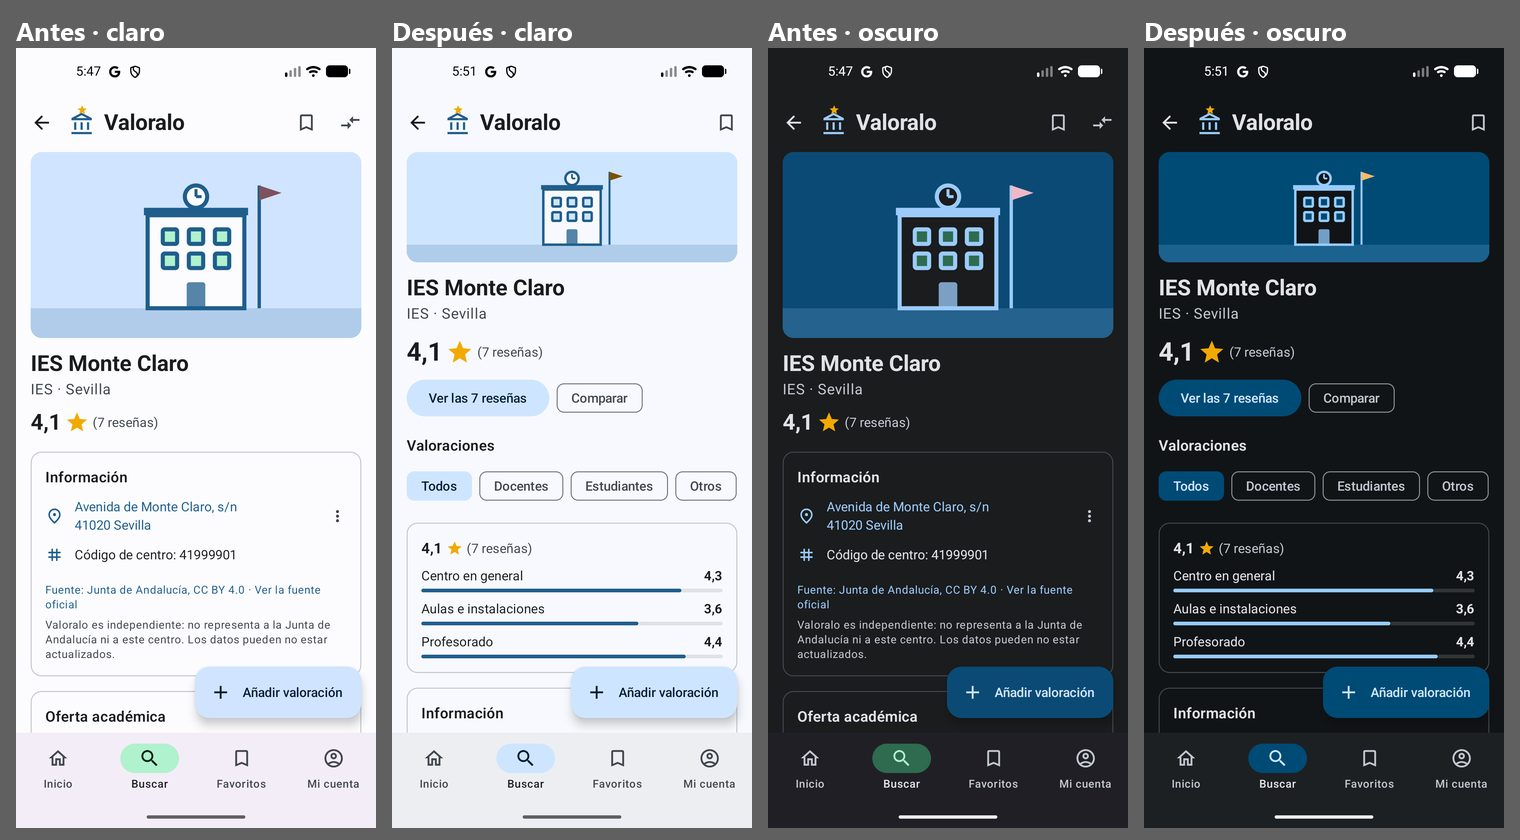
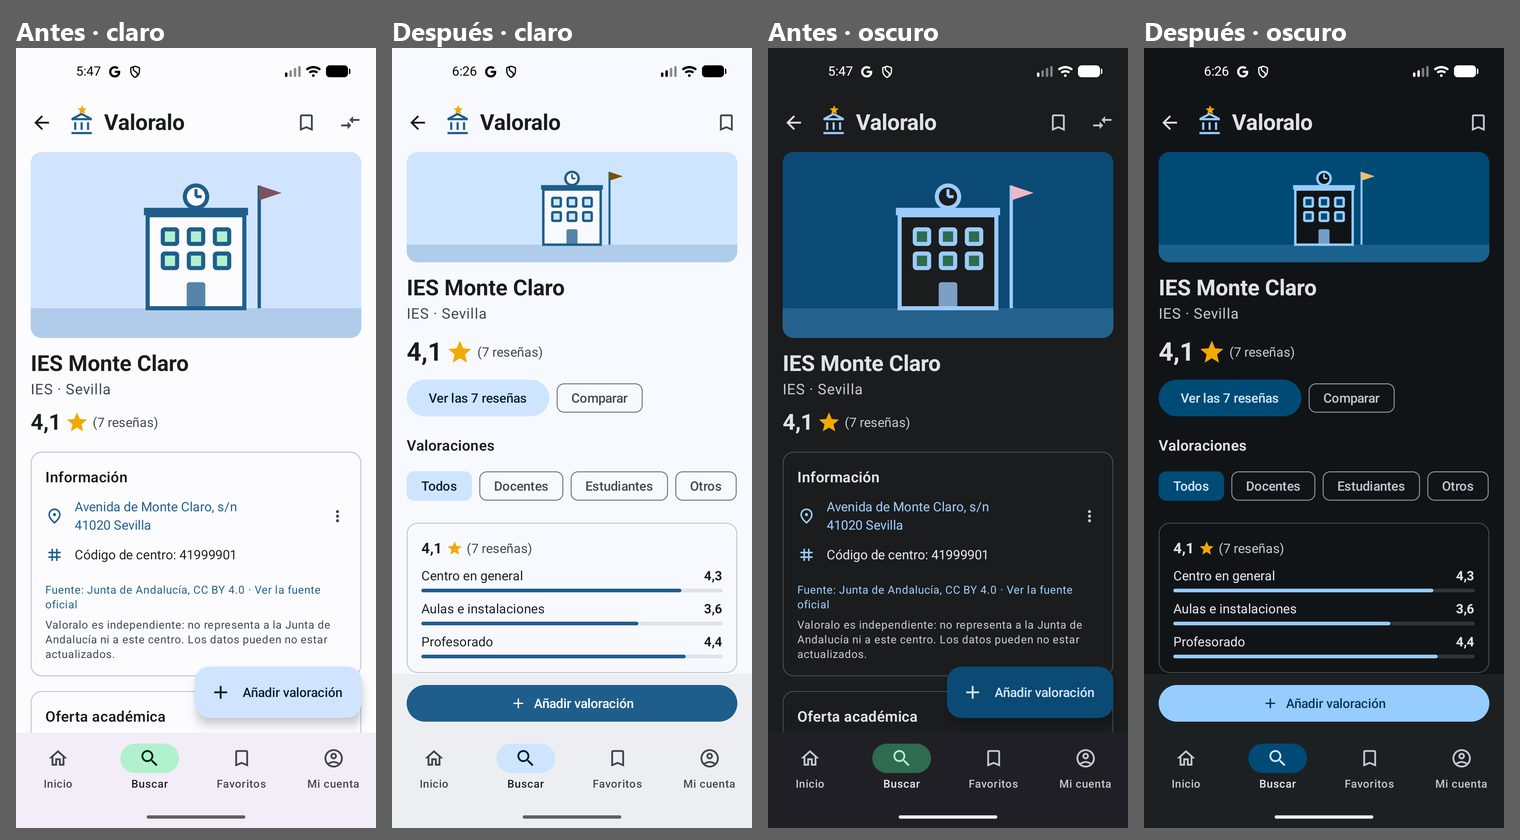
1.0.8 (versionCode 9): Docente en verde, barra fija «Añadir valoración» en el detalle (no tapa contenido), invitación en centros sin reseñas, capturas corregidas (comparador con 3 centros); decisiones.md con la ronda de diseño y la regla de capturas con centros ficticios

Changed region(s): [[0.7421, 0.7738, 0.9895, 0.8667], [0.2474, 0.7738, 0.4947, 0.8667]]

diff --git a/app/src/main/java/com/valoralo/ui/detail/DetailScreen.kt b/app/src/main/java/com/valoralo/ui/detail/DetailScreen.kt
@@ -61,6 +61,8 @@ import androidx.compose.material.icons.outlined.ErrorOutline
 import androidx.compose.material.icons.outlined.RateReview
 import androidx.compose.material.icons.outlined.SearchOff
 import androidx.compose.material3.FilledTonalButton
+import androidx.compose.material3.Surface
+import androidx.compose.material3.Button
 import androidx.compose.runtime.derivedStateOf
 import androidx.compose.runtime.rememberCoroutineScope
 import androidx.compose.ui.text.style.TextOverflow
@@ -168,8 +170,7 @@ private fun DetailContent(
     val lista = rememberLazyListState()
     // 1.0.8: once the header scrolls away, the bar shows which centro this is.
     val cabeceraFuera by remember { derivedStateOf { lista.firstVisibleItemIndex > 0 } }
-    // 1.0.8: the button shrinks to its icon while scrolling down and grows back when scrolling up or at the top.
-    val fabExpandido by remember { derivedStateOf { lista.firstVisibleItemIndex == 0 || !lista.lastScrolledForward } }
+
     Scaffold(
         topBar = {
             TopAppBar(
@@ -189,23 +190,28 @@ private fun DetailContent(
                 actions = { if (state is DetailUiState.Listo) accionesBarra(state.centro) },
             )
         },
-        floatingActionButton = {
+        // 1.0.8: a fixed bar at the bottom instead of a floating button, so it never covers text or bars
+        // (the content is laid out above it).
+        bottomBar = {
             if (state is DetailUiState.Listo) {
                 val propia = state.miValoracion != null
                 val etiqueta = if (propia) "Editar mi valoración" else "Añadir valoración"
-                ExtendedFloatingActionButton(
-                    onClick = { onAnadirValoracion(state.centro) },
-                    icon = { Icon(if (propia) Icons.Outlined.Edit else Icons.Filled.Add, contentDescription = null) },
-                    text = { Text(etiqueta) },
-                    expanded = fabExpandido,
-                    // One accessibility node with name, role and action: the tree showed this button without
-                    // text (QA 1.0.5, finding 15), so TalkBack doesn't depend on merging the inner Text.
-                    modifier = Modifier.clearAndSetSemantics {
-                        contentDescription = etiqueta
-                        role = Role.Button
-                        onClick(label = etiqueta) { onAnadirValoracion(state.centro); true }
-                    },
-                )
+                Surface(color = MaterialTheme.colorScheme.surfaceContainer) {
+                    Button(
+                        onClick = { onAnadirValoracion(state.centro) },
+                        modifier = Modifier.fillMaxWidth().padding(horizontal = 16.dp, vertical = 8.dp)
+                            // One accessibility node with name, role and action (QA 1.0.5, finding 15).
+                            .clearAndSetSemantics {
+                                contentDescription = etiqueta
+                                role = Role.Button
+                                onClick(label = etiqueta) { onAnadirValoracion(state.centro); true }
+                            },
+                    ) {
+                        Icon(if (propia) Icons.Outlined.Edit else Icons.Filled.Add, contentDescription = null, modifier = Modifier.size(18.dp))
+                        Spacer(Modifier.width(8.dp))
+                        Text(etiqueta)
+                    }
+                }
             }
         },
         // The app-level Scaffold already handles system bars and the bottom bar.
@@ -275,11 +281,11 @@ private fun DetailLista(
     LazyColumn(
         state = lista,
         modifier = Modifier.fillMaxSize().padding(padding),
-        contentPadding = PaddingValues(start = 16.dp, end = 16.dp, bottom = 96.dp),
+        contentPadding = PaddingValues(start = 16.dp, end = 16.dp, bottom = 16.dp),
         verticalArrangement = Arrangement.spacedBy(16.dp),
     ) {
         item(key = "cabecera") {
-            Cabecera(centro, botonComparar, onVerResenas = { scope.launch { lista.animateScrollToItem(indiceResenas) } })
+            Cabecera(centro, botonComparar, onVerResenas = { scope.launch { lista.animateScrollToItem(indiceResenas) } }, onValorar = onAnadirValoracion.takeIf { state.miValoracion == null })
         }
         item(key = "valoraciones") {
             Titulo("Valoraciones")
@@ -311,7 +317,7 @@ private fun DetailLista(
         }
         if (state.resenas.isEmpty()) {
             item(key = "sin-resenas") {
-                val invitar = state.filtroRol == FiltroRol.TODOS && state.miValoracion == null
+                val invitar = state.filtroRol == FiltroRol.TODOS && state.miValoracion == null && centro.stats.total.n > 0
                 EstadoVacio(
                     Icons.Outlined.RateReview,
                     textoSinResenas(state.filtroRol, tengoPropia = state.miValoracion != null),
@@ -340,7 +346,7 @@ internal fun indiceDeResenas(hayDepartamentos: Boolean, hayPropia: Boolean): Int
 
 @OptIn(ExperimentalLayoutApi::class)
 @Composable
-private fun Cabecera(centro: Centro, botonComparar: @Composable () -> Unit, onVerResenas: () -> Unit) {
+private fun Cabecera(centro: Centro, botonComparar: @Composable () -> Unit, onVerResenas: () -> Unit, onValorar: (() -> Unit)?) {
     Column {
         // 1.0.8: a slimmer illustration (was 16:9, a third of the screen) so the mark is visible at once.
         FotoCentro(centro.fotoUrl, centro.tipo, Modifier.fillMaxWidth().aspectRatio(3f))
@@ -366,6 +372,19 @@ private fun Cabecera(centro: Centro, botonComparar: @Composable () -> Unit, onVe
                 }
             }
             botonComparar()
+        }
+        // 1.0.8: a centro without reviews invites to write the first one as soon as it opens.
+        if (centro.stats.total.n == 0 && onValorar != null) {
+            Spacer(Modifier.height(12.dp))
+            OutlinedCard(Modifier.fillMaxWidth()) {
+                EstadoVacio(
+                    Icons.Outlined.RateReview,
+                    "Aún no hay reseñas de este centro",
+                    "Tu opinión ayuda a otras familias, estudiantes y docentes.",
+                    accion = "Sé el primero en valorar",
+                    onAccion = onValorar,
+                )
+            }
         }
     }
 }

diff --git a/app/src/main/java/com/valoralo/ui/theme/BordeRol.kt b/app/src/main/java/com/valoralo/ui/theme/BordeRol.kt
@@ -9,11 +9,6 @@ import androidx.compose.ui.unit.Dp
 import androidx.compose.ui.unit.dp
 import com.valoralo.domain.model.Rol
 
-/** Candidates for the Docente colour (1.0.8): it must not be the brand blue of buttons and links. */
-enum class ColorDocente { VERDE, TEAL }
-
-/** Chosen with the before/after captures (docs/diseno). */
-val PROPUESTA_DOCENTE = ColorDocente.VERDE
 
 /**
  * Border of a review card by the author's role: Docente green (1.0.8; was the brand blue), Estudiante
@@ -21,11 +16,9 @@ val PROPUESTA_DOCENTE = ColorDocente.VERDE
  * the card (and the verified badge stays). Docente and Estudiante reach ≥ 4.5:1 against the card surfaces
  * in light and dark (WCAG asks 3:1 for borders, 4.5:1 for the carousel's role label).
  */
-fun colorBordeRol(rol: Rol, oscuro: Boolean, docente: ColorDocente = PROPUESTA_DOCENTE): Color = when (rol) {
-    Rol.DOCENTE -> when (docente) {
-        ColorDocente.VERDE -> if (oscuro) DocenteVerde80 else DocenteVerde40
-        ColorDocente.TEAL -> if (oscuro) DocenteTeal80 else DocenteTeal40
-    }
+fun colorBordeRol(rol: Rol, oscuro: Boolean): Color = when (rol) {
+    // Green, chosen on 22/11/2026 over teal (docs/diseno/antes-despues-1.0.8/00-color-docente-*).
+    Rol.DOCENTE -> if (oscuro) DocenteVerde80 else DocenteVerde40
     Rol.ESTUDIANTE -> if (oscuro) Melocoton80 else Terracota40
     Rol.OTRO -> if (oscuro) NeutroVar30 else NeutroVar80 // = outlineVariant, the default card border
 }

diff --git a/app/src/test/java/com/valoralo/ui/theme/BordeRolTest.kt b/app/src/test/java/com/valoralo/ui/theme/BordeRolTest.kt
@@ -38,9 +38,9 @@ class BordeRolTest {
     @Test
     fun docenteYEstudianteSonLegiblesComoTextoEnClaroYOscuro() {
         // 4.5:1 also covers the 3:1 needed for borders.
-        for (docente in ColorDocente.entries) for (rol in listOf(Rol.DOCENTE, Rol.ESTUDIANTE)) {
-            fondosClaros.forEach { f -> assertTrue("$rol/$docente claro", contraste(colorBordeRol(rol, false, docente), f) >= 4.5) }
-            fondosOscuros.forEach { f -> assertTrue("$rol/$docente oscuro", contraste(colorBordeRol(rol, true, docente), f) >= 4.5) }
+        for (rol in listOf(Rol.DOCENTE, Rol.ESTUDIANTE)) {
+            fondosClaros.forEach { f -> assertTrue("$rol claro", contraste(colorBordeRol(rol, false), f) >= 4.5) }
+            fondosOscuros.forEach { f -> assertTrue("$rol oscuro", contraste(colorBordeRol(rol, true), f) >= 4.5) }
         }
     }
 
@@ -48,10 +48,8 @@ class BordeRolTest {
     fun docenteYaNoEsElAzulDeBotonesYEnlaces() {
         val primarioClaro = Color(0xFF1F5E8C)
         val primarioOscuro = Color(0xFF96CCFF)
-        for (docente in ColorDocente.entries) {
-            assertNotEquals(primarioClaro, colorBordeRol(Rol.DOCENTE, false, docente))
-            assertNotEquals(primarioOscuro, colorBordeRol(Rol.DOCENTE, true, docente))
-        }
+        assertNotEquals(primarioClaro, colorBordeRol(Rol.DOCENTE, false))
+        assertNotEquals(primarioOscuro, colorBordeRol(Rol.DOCENTE, true))
     }
 
     @Test

diff --git a/app/src/main/java/com/valoralo/ui/theme/Color.kt b/app/src/main/java/com/valoralo/ui/theme/Color.kt
@@ -29,12 +29,9 @@ val NeutroVar90 = Color(0xFFDEE3EB)
 val Terracota40 = Color(0xFFA0461A)
 val Melocoton80 = Color(0xFFFFB68F)
 
-// Teacher reviews (1.0.8): no longer the brand blue of buttons and links. Two candidates from HCT tonal
-// palettes (tone 40 light / 80 dark); the chosen one is PROPUESTA_DOCENTE.
+// Teacher reviews (1.0.8): green, no longer the brand blue of buttons and links (HCT tone 40 light / 80 dark).
 val DocenteVerde40 = Color(0xFF2C694D)
 val DocenteVerde80 = Color(0xFF95D4B2)
-val DocenteTeal40 = Color(0xFF006A6A)
-val DocenteTeal80 = Color(0xFF72D6D6)
 
 // "Docente verificado" badge: its own green container (secondaryContainer is now the selection blue).
 val VerificadoContenedor = Color(0xFFB0F1CD)

diff --git a/docs/decisiones.md b/docs/decisiones.md
@@ -74,6 +74,36 @@ La carpeta `docs/` es la fuente de verdad de la especificación. Cualquier cambi
   - Si Google rechaza el botón "Iniciar sesión con Google" (`GetSignInWithGoogleOption`), la app lo intenta con el selector de cuentas (`GetGoogleIdOption`, sin filtrar cuentas autorizadas) y, si también falla, muestra los dos códigos ("Botón: … / Selector: …").
   - **Resultado (18/11/2026):** la huella que faltaba era la de la **clave anterior** de la firma híbrida, SHA-1 `26:FF:D8:13:5B:5F:08:AD:75:35:F2:88:64:91:8F:A2:6E:A7:A9:79` (la que ve un móvil con Android 16 o anterior). Añadida en Firebase, Google funciona. **Regla: con la firma "preparada para la computación cuántica" hay que registrar en Firebase las tres huellas de Play** (clásica `1D:9A…`, poscuántica `A8:47…` y anterior `26:FF…`), además de la de subida y la de debug, y repetirlo cada vez que Play rote la clave (anual).
 - **1.0.4 (versionCode 5): nada técnico para el usuario.** Los mensajes de error son siempre texto para el usuario ("No se ha podido iniciar sesión con Google. Inténtalo de nuevo o entra con tu correo."); los detalles (código, clase, mensaje técnico, huella instalada) van solo a Crashlytics y, en debug, a Logcat y a la pantalla. Se quitan la sección "Firma de esta instalación" de Acerca de y el segundo intento con el selector de cuentas. Acerca de queda con versión, condiciones, privacidad, cómo eliminar la cuenta, contacto y la atribución de la Junta. Las funciones marcan sus mensajes para el usuario con `details.paraUsuario`; la app solo muestra el mensaje del servidor si lleva esa marca (los de Firebase, en inglés —"NOT_FOUND", "Unauthenticated"—, se cambian por el texto de la app).
+- **Regla de capturas (22/11/2026): en cualquier captura (ficha de Play, documentación, auditorías), solo centros ficticios.** Nunca un centro real, ni siquiera sin reseñas ni en un listado. Para hacerlas, los emuladores de Firebase se cargan solo con centros ficticios (11, códigos `41999901`–`41999911`, nombres comprobados contra el catálogo de Andalucía) y se borran los reales. Se retiraron de `docs/diseno/capturas/` las que mostraban centros reales.
+- **1.0.8 (versionCode 9, 22/11/2026): ronda de diseño** (`docs/diseno/propuesta-2026-11-22.md`, capturas en `docs/diseno/antes-despues-1.0.8/`).
+  - *Color.*
+    - **Esquema completo** en `Theme.kt`, generado con el algoritmo de Material (paletas HCT) desde #1F5E8C. `primary` conserva el azul de la marca; superficies, contornos y `surfaceContainer*` salen de la paleta neutra del mismo tono, así que ya no hay tonos lavanda. `tertiary` es ámbar (la generada era lavanda).
+    - **Un solo color de selección:** `secondaryContainer` = `primaryContainer`, el azul claro, en la barra inferior, chips y filtros; ya no hay menta.
+    - **Docente en verde**, distinto del azul de botones y enlaces: #2C694D en claro y #95D4B2 en oscuro. Se eligió frente al verde azulado. La insignia «Docente verificado» tiene su propio contenedor verde. Contraste de al menos 4,5:1 en todas las superficies de tarjeta (`BordeRolTest`).
+    - **Tema** claro, oscuro o según el sistema, en Mi cuenta. Es una preferencia del dispositivo: no va al servidor.
+  - *Buscar.*
+    - Número de resultados y orden: Relevancia, Mejor valorados, Más reseñas o Nombre. Los centros con menos de 3 reseñas van detrás de los que tienen 3 o más (`MIN_RESENAS_FIABLE`).
+    - Tarjetas sin «Ver más»: la tarjeta entera abre el centro. Dicen «Sin reseñas todavía» y «Comparar» es un chip que no se parte.
+    - Tipos de centro agrupados en los filtros: Colegios, Institutos, Formación Profesional, Personas adultas, Idiomas, Música y danza, Arte y diseño, Educación especial. Las siglas van en pequeño; una sigla nueva del dataset aparece como opción propia.
+  - *Detalle del centro.*
+    - Ilustración 3:1, nota grande, «Ver las N reseñas» y «Comparar» con texto.
+    - Orden: notas, información, oferta académica, departamentos, tu valoración, reseñas.
+    - Al bajar, la barra superior muestra el nombre del centro.
+    - Barras de un solo color.
+    - Departamentos con menos de 3 reseñas en gris, con una leyenda debajo; TalkBack dice «pocas reseñas».
+    - Filas de contacto de 48 dp.
+    - **«Añadir/Editar mi valoración» es una barra fija abajo, no un botón flotante:** nunca tapa texto ni barras.
+    - Un centro sin reseñas muestra «Sé el primero en valorar» en la cabecera.
+  - *Estados vacíos y de error* (`EstadoVacio`): icono, título, explicación y acción («Quitar filtros», «Borrar búsqueda», «Volver»).
+  - *Formulario de valoración.* A pantalla completa, sin la barra inferior. «Publicar» va fijo abajo e indica qué falta. Las notas principales llevan etiqueta: Muy mal, Mal, Regular, Bien, Excelente; TalkBack las lee en todas las estrellas.
+  - *Comparador.* El número de reseñas va en la cabecera de cada centro, no en cada celda. «Sin datos» sustituye a «sin val.», y las notas con menos de 3 reseñas van en gris.
+  - *Mi cuenta.* «Eliminar cuenta» al final, separado y después de «Cerrar sesión».
+  - *Panel.*
+    - `[hidden]` gana a las reglas `display`; «Cerrar sesión» salía sin sesión.
+    - «hoy», «ayer» y «hace N días».
+    - Herramientas separadas de las pestañas.
+    - Identificador técnico plegado.
+    - Colores del esquema nuevo.
 - **Rechazo de Google Play (21/11/2026): política de declaraciones engañosas.** La prueba cerrada se rechazó porque la descripción no enlazaba las fuentes oficiales de la información pública ni avisaba de que no representa a ningún organismo.
   - *La ficha:* aviso de independencia al principio y sección «Fuentes de los datos oficiales» con 3 enlaces de la Junta (texto en `docs/play/ficha-y-formularios.md`). Se reenvió la prueba cerrada con la 1.0.6.
   - *Regla:* la ficha y la app llevan siempre el mismo aviso y las mismas fuentes oficiales (`Fuente.kt`; el test `FuentesOficialesTest` fija nombres y enlaces). Cualquier dato público nuevo (otro dataset, otra comunidad) se añade a la ficha, a la app y a la licencia a la vez.
